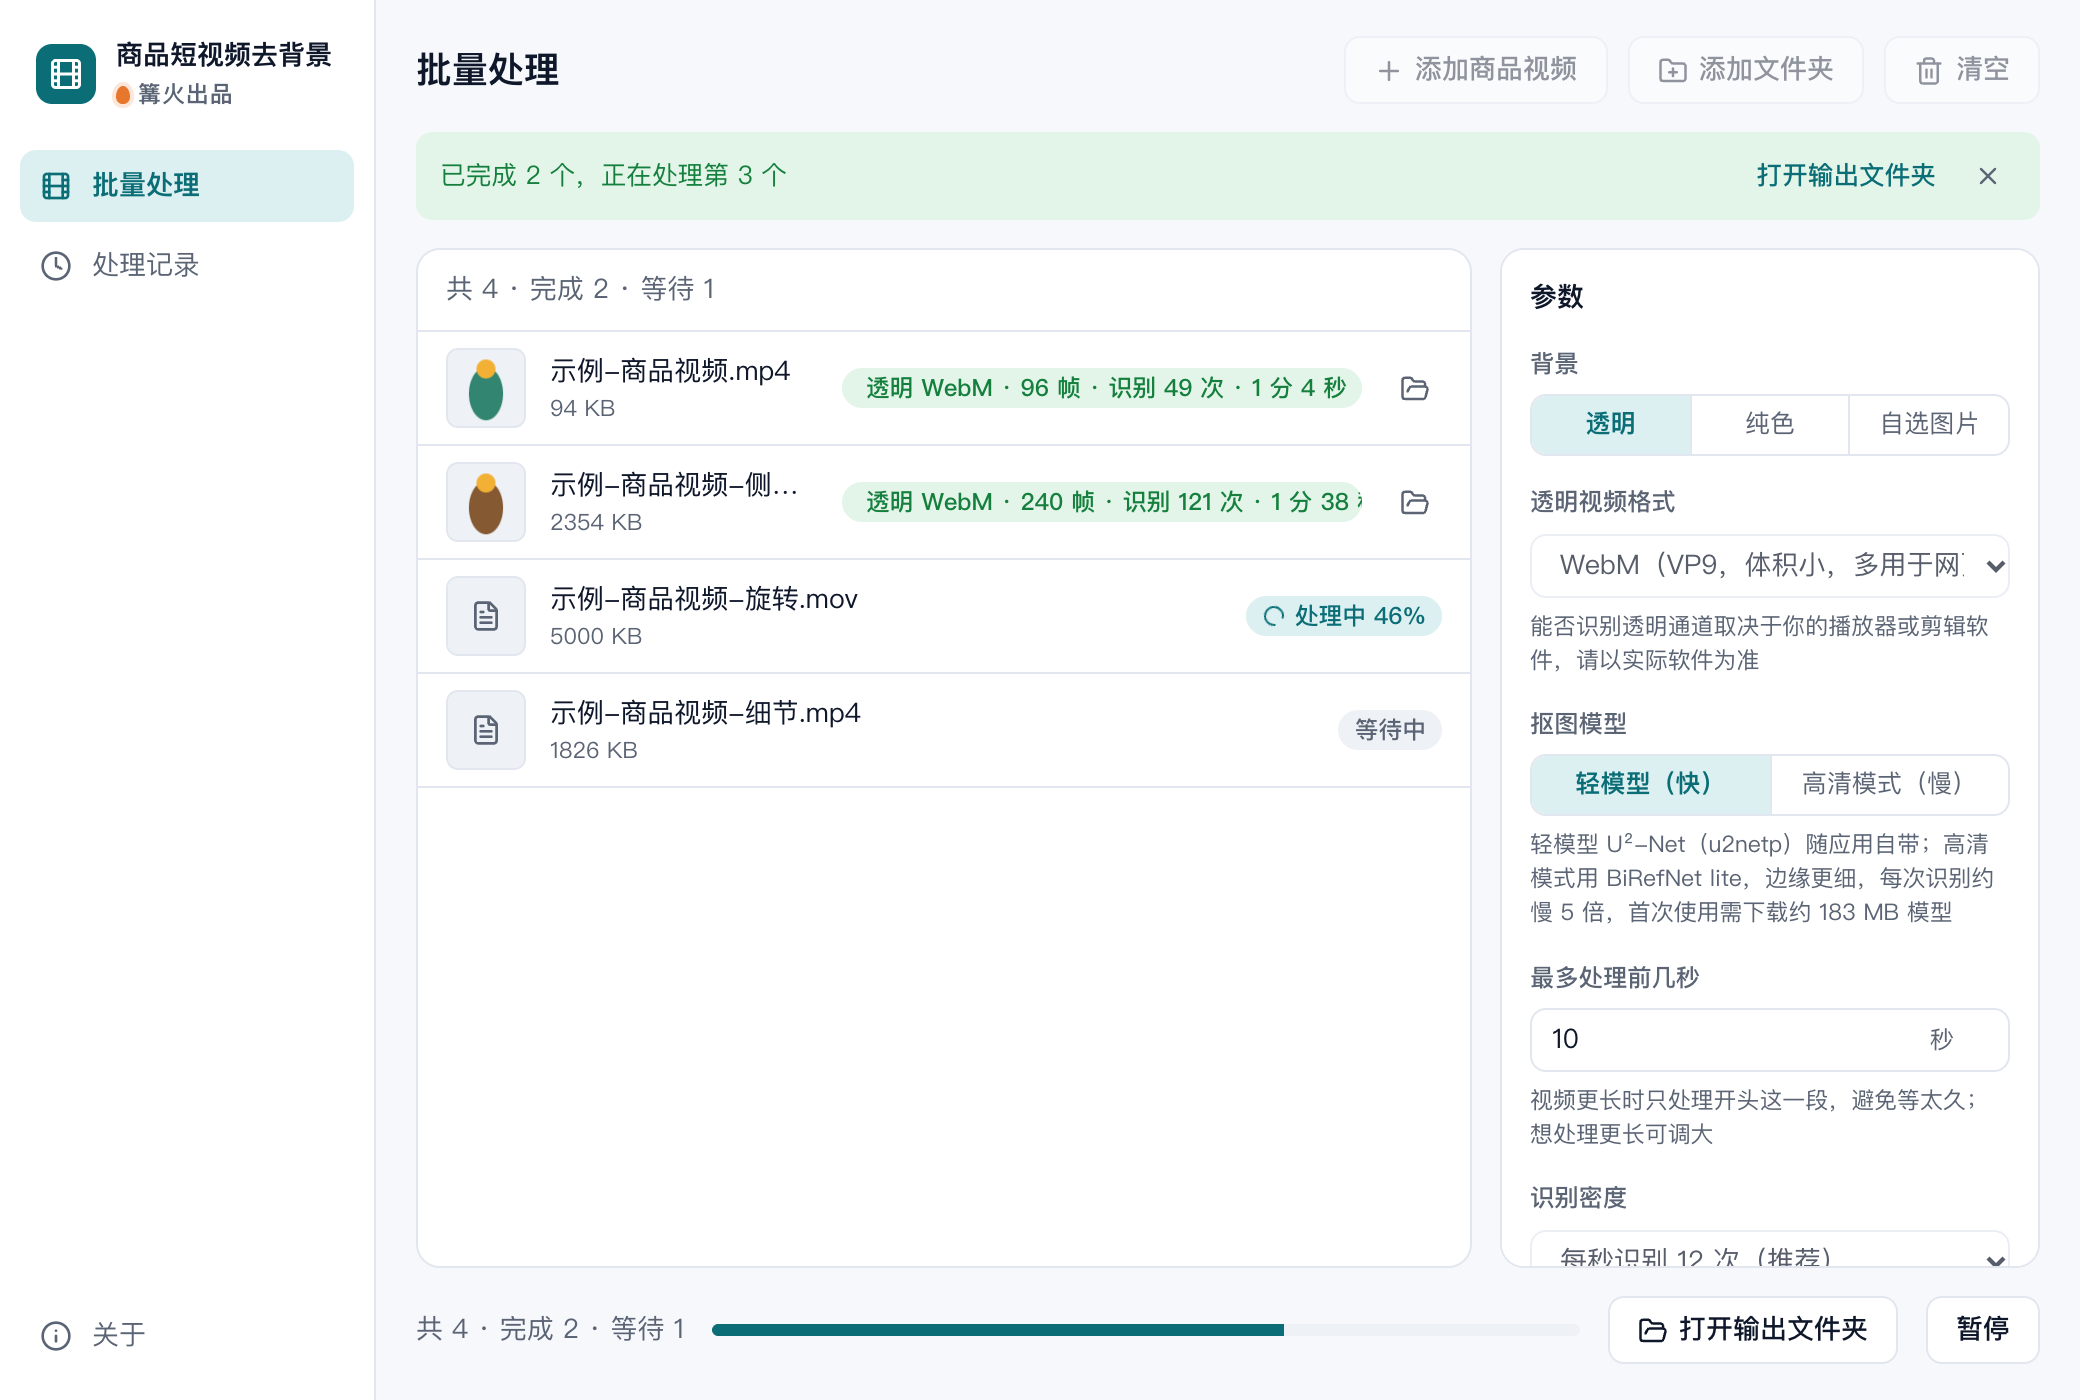
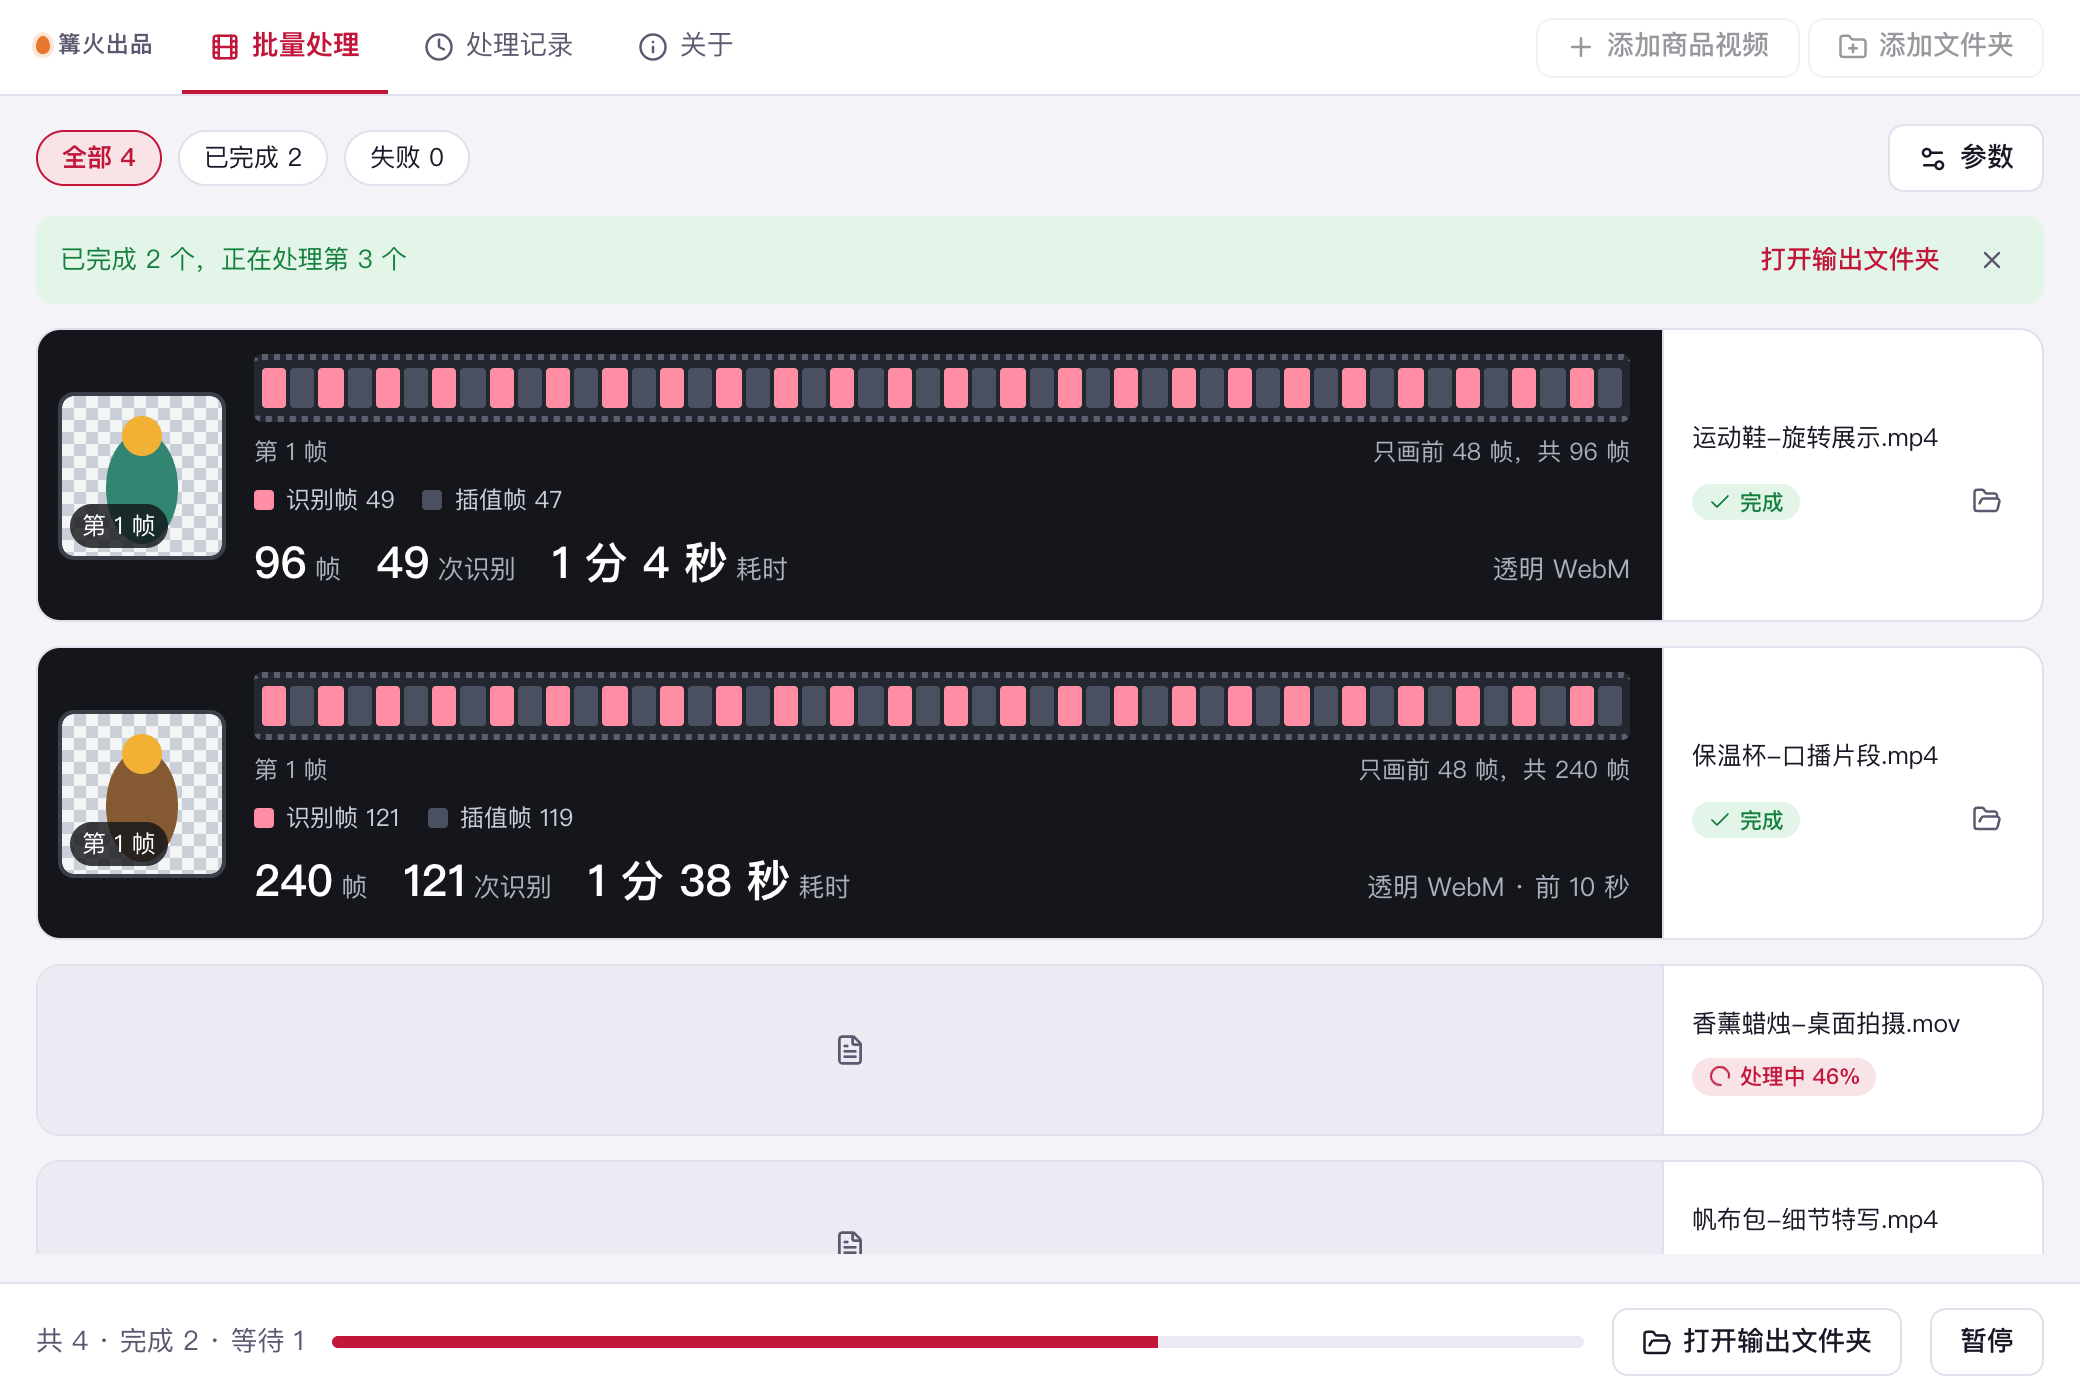
界面重做：胶片式帧时间轴、示意空状态、专属主色（0.2.0）

diff --git a/src/tool/ui.tsx b/src/tool/ui.tsx
@@ -1,0 +1,89 @@
+// 界面：空状态（视频逐帧抠图示意）与单条结果（帧时间轴：哪些帧识别、哪些帧插值）
+import { Clapperboard, Gauge, Layers, ScanLine } from 'lucide-react';
+import type { InputItem, ItemResult } from '../kit/types';
+import { fileSrc } from '../kit/platform';
+import './tool.css';
+
+/** 示意用的一条胶片：8 格，商品从左往右移动 */
+function Strip({ keep }: { keep: boolean }) {
+  return (
+    <svg viewBox="0 0 320 64" className={`vb-strip${keep ? ' keep' : ''}`} aria-hidden="true">
+      <rect width="320" height="64" rx="6" fill="#16181D" />
+      {Array.from({ length: 8 }, (_, i) => (
+        <g key={i} transform={`translate(${6 + i * 39} 8)`}>
+          <rect width="35" height="48" rx="3" fill={keep ? 'url(#vb-chk)' : '#A98A66'} />
+          {!keep && <rect width="35" height="48" rx="3" fill="none" stroke="#7B6248" strokeWidth="6" strokeDasharray="4 5" opacity=".45" />}
+          <rect x={7 + i * 1.6} y="14" width="14" height="26" rx="4" fill="#E3566F" />
+          <circle cx={14 + i * 1.6} cy="11" r="5" fill="#F2B134" />
+        </g>
+      ))}
+    </svg>
+  );
+}
+
+export function Empty({ hover }: { hover: boolean }) {
+  return (
+    <div className={`vb-empty${hover ? ' hover' : ''}`}>
+      <svg width="0" height="0" aria-hidden="true"><defs><pattern id="vb-chk" width="8" height="8" patternUnits="userSpaceOnUse"><rect width="8" height="8" fill="#F3F4F6" /><rect width="4" height="4" fill="#CBD0D8" /><rect x="4" y="4" width="4" height="4" fill="#CBD0D8" /></pattern></defs></svg>
+      <div className="vb-flow" aria-hidden="true">
+        <figure><Strip keep={false} /><figcaption>原视频：商品在杂乱背景里移动</figcaption></figure>
+        <div className="vb-flow-mid"><span /><b>逐帧抠图</b><span /></div>
+        <figure><Strip keep /><figcaption>成片：透明背景，或换成纯色、自选图片</figcaption></figure>
+      </div>
+      <h2>一段商品视频，逐帧去掉背景</h2>
+      <p>软件把视频拆成一帧一帧，隔几帧识别一次商品，中间的帧用插值补上，再合成回视频。想换背景就在右侧选纯色或图片。</p>
+      <ul className="vb-points">
+        <li><ScanLine size={14} />识别密度可调</li>
+        <li><Layers size={14} />透明 WebM / ProRes 或 MP4</li>
+        <li><Gauge size={14} />轻模型快，高清模式边缘更细</li>
+        <li><Clapperboard size={14} />默认处理前 10 秒</li>
+      </ul>
+      <p className="vb-hint">把商品视频拖进窗口，也可以点右上角的添加按钮选择文件。</p>
+    </div>
+  );
+}
+
+interface Facts { label: string; frames: number; shots: number; took: string; head: string }
+function parse(summary?: string): Facts | null {
+  if (!summary) return null;
+  const parts = summary.split(' · ');
+  const frames = Number(parts.find((p) => /帧$/.test(p))?.replace(/\D/g, ''));
+  const shots = Number(parts.find((p) => p.startsWith('识别'))?.replace(/\D/g, ''));
+  if (!frames || !shots) return null;
+  const head = parts.find((p) => /^前 \d+ 秒$/.test(p)) ?? '';
+  const took = parts.find((p) => /秒$/.test(p) && !/^前/.test(p) && !p.startsWith('识别')) ?? '';
+  return { label: parts[0], frames, shots, took, head };
+}
+
+const CELLS = 48;
+
+export function ResultBody({ item, result }: { item: InputItem; result: ItemResult }) {
+  const f = parse(result.summary);
+  const src = result.preview ? fileSrc(result.preview) : '';
+  // 时间轴只画开头的 48 帧：按识别次数算出哪些帧做过识别，其余是插值帧
+  const cells = f ? Math.min(CELLS, f.frames) : 0;
+  const keys = new Set<number>();
+  if (f) for (let k = 0; k < f.shots; k++) keys.add(f.shots > 1 ? Math.round((k * (f.frames - 1)) / (f.shots - 1)) : 0);
+  return (
+    <div className="vb-result">
+      <div className="vb-poster" title="第 1 帧的抠图结果">{src && <img src={src} alt={`${item.name} 第 1 帧`} />}<em>第 1 帧</em></div>
+      <div className="vb-film">
+        {f ? (
+          <>
+            <div className="vb-reel" role="img" aria-label={`共 ${f.frames} 帧，识别 ${f.shots} 次，其余帧插值`}>
+              {Array.from({ length: cells }, (_, i) => <i key={i} className={keys.has(i) ? 'key' : ''} />)}
+            </div>
+            <div className="vb-ruler"><span>第 1 帧</span><span>{f.frames > cells ? `只画前 ${cells} 帧，共 ${f.frames} 帧` : `第 ${f.frames} 帧`}</span></div>
+            <div className="vb-legend"><span><i className="key" />识别帧 {f.shots}</span><span><i />插值帧 {Math.max(0, f.frames - f.shots)}</span></div>
+            <div className="vb-facts">
+              <span><b className="k-num">{f.frames}</b>帧</span>
+              <span><b className="k-num">{f.shots}</b>次识别</span>
+              {f.took && <span><b className="k-num">{f.took}</b>耗时</span>}
+              <span className="vb-tagline">{f.label}{f.head ? ` · ${f.head}` : ''}</span>
+            </div>
+          </>
+        ) : <span className="k-muted">{result.summary}</span>}
+      </div>
+    </div>
+  );
+}

diff --git a/src/tool/tool.css b/src/tool/tool.css
@@ -1,0 +1,38 @@
+/* 商品短视频去背景：胶片风格的帧时间轴。结果卡片改成横向整行 */
+.vb-empty { display: grid; justify-items: center; gap: 10px; text-align: center; padding: 28px 20px; }
+.vb-empty h2 { margin: 6px 0 0; font-size: 1.5em; }
+.vb-empty p { margin: 0; color: var(--muted); max-width: 38em; line-height: 1.6; }
+.vb-flow { display: grid; gap: 6px; justify-items: center; margin-bottom: 6px; }
+.vb-flow figure { margin: 0; display: grid; gap: 6px; justify-items: center; }
+.vb-flow figcaption { font-size: 13px; color: var(--muted); }
+.vb-strip { width: min(420px, 80vw); height: auto; border-radius: 6px; box-shadow: 0 6px 18px rgb(0 0 0 / .14); transition: transform .2s var(--ease); }
+.vb-strip.keep { box-shadow: 0 6px 18px rgb(0 0 0 / .14), 0 0 0 3px var(--primary-soft); }
+.vb-empty.hover .vb-strip { transform: translateY(-3px); }
+.vb-flow-mid { display: flex; align-items: center; gap: 10px; color: var(--primary); font-size: 13px; }
+.vb-flow-mid span { width: 2px; height: 18px; background: var(--primary); opacity: .5; }
+.vb-points { list-style: none; margin: 4px 0 0; padding: 0; display: flex; flex-wrap: wrap; justify-content: center; gap: 8px; }
+.vb-points li { display: inline-flex; align-items: center; gap: 6px; min-height: 32px; padding: 0 12px; border-radius: var(--radius-pill); background: var(--primary-soft); font-size: 13px; }
+.vb-points svg { color: var(--primary); }
+.vb-hint { font-size: 13px; }
+
+/* 整行卡片：左边时间轴，右边名称和操作 */
+.k-cards { grid-template-columns: 1fr; gap: 12px; }
+.k-card { display: grid; grid-template-columns: minmax(0, 1fr) 190px; align-items: stretch; }
+.k-card > .k-thumb { height: 100%; min-height: 84px; width: 100%; }
+.k-card-meta { align-content: center; border-left: 1px solid var(--line); padding: 12px 14px; gap: 8px; }
+.k-card-body { padding: 0; }
+.vb-result { display: grid; grid-template-columns: 104px minmax(0, 1fr); gap: 0; background: #14161B; color: #E7E9EE; height: 100%; }
+.vb-poster { position: relative; margin: 12px; border-radius: 6px; overflow: hidden; background: repeating-conic-gradient(#cbd0d8 0 25%, #f3f4f6 0 50%) 0 0 / 12px 12px; aspect-ratio: 1; align-self: center; outline: 2px solid #3A3F4A; }
+.vb-poster img { position: absolute; inset: 0; width: 100%; height: 100%; object-fit: contain; }
+.vb-poster em { position: absolute; left: 4px; bottom: 4px; font-style: normal; font-size: 12px; padding: 2px 6px; border-radius: 999px; background: rgb(20 22 27 / .82); color: #fff; }
+.vb-film { display: grid; gap: 6px; align-content: center; padding: 12px 16px 12px 4px; min-width: 0; }
+.vb-reel { display: grid; grid-auto-flow: column; grid-auto-columns: 1fr; gap: 2px; height: 34px; padding: 4px; border-radius: 4px; background: #232730; border-top: 3px dotted #5A6070; border-bottom: 3px dotted #5A6070; }
+.vb-reel i, .vb-legend i { display: block; border-radius: 2px; background: #4A5060; }
+.vb-reel i.key, .vb-legend i.key { background: #FF8DA3; }
+.vb-ruler { display: flex; justify-content: space-between; font-size: 12px; color: #A9AFBC; }
+.vb-legend { display: flex; gap: 14px; font-size: 12px; color: #C9CEDA; }
+.vb-legend span { display: inline-flex; align-items: center; gap: 6px; }
+.vb-legend i { width: 10px; height: 10px; }
+.vb-facts { display: flex; flex-wrap: wrap; align-items: baseline; gap: 4px 18px; font-size: 13px; color: #A9AFBC; }
+.vb-facts b { font-size: 22px; font-weight: 700; margin-right: 4px; color: #fff; }
+.vb-tagline { margin-left: auto; font-size: 13px; }

diff --git a/src/tool/index.ts b/src/tool/index.ts
@@ -12,6 +12,7 @@ import {
 import { refineInterpolated } from './pipeline';
 import { processFrames } from './process';
 import type { SmoothKey } from './temporal';
+import { Empty, ResultBody } from './ui';
 
 /** 可替换的外部依赖，测试里换成假的 */
 export const deps = {
@@ -35,7 +36,7 @@ const EXAMPLE = { secs: 10, fps: 24 };
 const exampleHelp = (() => {
   const lim: Limits = { maxSecs: EXAMPLE.secs, fps: EXAMPLE.fps, maxSide: 0 };
   const t = (maskFps: number, m: ModelKey) => fmtDuration(estimate(EXAMPLE.secs, lim, maskFps, m).seconds);
-  return `识别越密，运动中的商品越贴合，但越慢。例：${EXAMPLE.secs} 秒视频、${EXAMPLE.fps} 帧/秒，每秒识别 12 次，轻模型约 ${t(12, 'light')}、高清约 ${t(12, 'hd')}；每秒识别 6 次，轻模型约 ${t(6, 'light')}、高清约 ${t(6, 'hd')}。两次识别之间的画面用插值补上，商品移动快时间隔太大边缘会发虚。这是 Apple 芯片 Mac 上的实测推算（轻模型每次约 ${SEC_PER_INFER.light} 秒，高清每次约 ${SEC_PER_INFER.hd} 秒），只含识别，抽帧和合成另计，你的电脑会有差别`;
+  return `识别越密，运动中的商品越贴合，但越慢。例：${EXAMPLE.secs} 秒视频、${EXAMPLE.fps} 帧/秒，每秒识别 12 次，轻模型约 ${t(12, 'light')}、高清约 ${t(12, 'hd')}；每秒识别 6 次，轻模型约 ${t(6, 'light')}、高清约 ${t(6, 'hd')}。两次识别之间的画面用插值补上，商品移动快时间隔太大边缘会发虚。这是苹果芯片 Mac 上的实测推算（轻模型每次约 ${SEC_PER_INFER.light} 秒，高清每次约 ${SEC_PER_INFER.hd} 秒），只含识别，抽帧和合成另计，你的电脑会有差别`;
 })();
 
 const ext = (name: string) => name.split('.').pop()?.toLowerCase() ?? '';
@@ -49,6 +50,8 @@ const tool: BatchTool = {
   type: 'media',
   mode: 'batch',
   resultView: 'list',
+  Empty,
+  ResultBody,
   concurrency: 1,
   accept: { label: '商品视频', extensions: VIDEO_EXTS },
   check: (item) => (VIDEO_EXTS.includes(ext(item.name)) ? null : `不是支持的视频格式（支持 ${VIDEO_EXTS.join('、')}）`),
@@ -63,7 +66,7 @@ const tool: BatchTool = {
     { key: 'bgImage', label: '背景图片', type: 'file', when: (p) => p.bg === 'image', extensions: IMAGE_EXTS, fileLabel: '图片', default: '', help: '等比放大铺满画面，多余部分居中裁掉；输出为 MP4' },
     {
       key: 'model', label: '抠图模型', type: 'segment', options: [['light', '轻模型（快）'], ['hd', '高清模式（慢）']], default: 'light',
-      help: '轻模型 U²-Net（u2netp）随应用自带；高清模式用 BiRefNet lite，边缘更细，每次识别约慢 5 倍，首次使用需下载约 183 MB 模型',
+      help: '轻模型随应用自带；高清模式用 BiRefNet 模型，边缘更细，每次识别约慢 5 倍，首次使用需下载约 183 MB 模型',
     },
     { key: 'modelFile', label: '本地模型文件（可选）', type: 'file', when: (p) => p.model === 'hd', extensions: ['onnx'], fileLabel: '模型文件', default: '', help: '下载不了时，可手动下载 birefnet-lite-512 的 model.onnx 在这里选择' },
     { key: 'maxSecs', label: '最多处理前几秒', type: 'number', default: 10, min: 1, max: 60, unit: '秒', help: '视频更长时只处理开头这一段，避免等太久；想处理更长可调大' },

diff --git a/src/tool/preview.ts b/src/tool/preview.ts
@@ -18,7 +18,7 @@ function cutout(i: number): string {
   return c.toDataURL('image/png');
 }
 
-const names = ['示例-商品视频.mp4', '示例-商品视频-侧拍.mp4', '示例-商品视频-旋转.mov', '示例-商品视频-细节.mp4'];
+const names = ['运动鞋-旋转展示.mp4', '保温杯-口播片段.mp4', '香薰蜡烛-桌面拍摄.mov', '帆布包-细节特写.mp4'];
 const sizes = [96_377, 2_410_000, 5_120_000, 1_870_000];
 const summary = ['透明 WebM · 96 帧 · 识别 49 次 · 1 分 4 秒', '透明 WebM · 240 帧 · 识别 121 次 · 1 分 38 秒 · 前 10 秒', '', ''];
 
@@ -26,7 +26,7 @@ export const rows = (state: string): Row[] =>
   state === 'empty' ? [] : names.map((name, i) => {
     const status: Row['status'] = state === 'done' ? 'ok' : i < 2 ? 'ok' : i === 2 ? 'run' : 'wait';
     return {
-      item: { id: `v${i}`, name, path: `/示例/${name}`, size: sizes[i] },
+      item: { id: `v${i}`, name, path: `/素材/${name}`, size: sizes[i] },
       status,
       progress: status === 'run' ? 0.46 : status === 'ok' ? 1 : 0,
       result: status === 'ok' ? { summary: summary[i] || '透明 WebM · 120 帧 · 识别 61 次 · 1 分 21 秒', preview: cutout(i), outputPath: '/tmp/out.webm' } : undefined,

diff --git a/CHANGELOG.md b/CHANGELOG.md
@@ -1,5 +1,12 @@
 # 更新记录
 
+## 0.2.0
+
+- 界面重做：每条结果是一条胶片式帧时间轴，标出识别帧与插值帧，并用大字显示帧数、识别次数和耗时，同时显示第 1 帧的抠图效果。
+- 新的空状态：用前后两条胶片示意「杂乱背景 → 透明背景」。
+- 结果卡片改成整行，换成专属主色（莓红），布局为顶部标签加卡片。
+- 示例数据改成真实感的中文视频名。
+
 ## 0.1.0
 
 - 首个版本。
